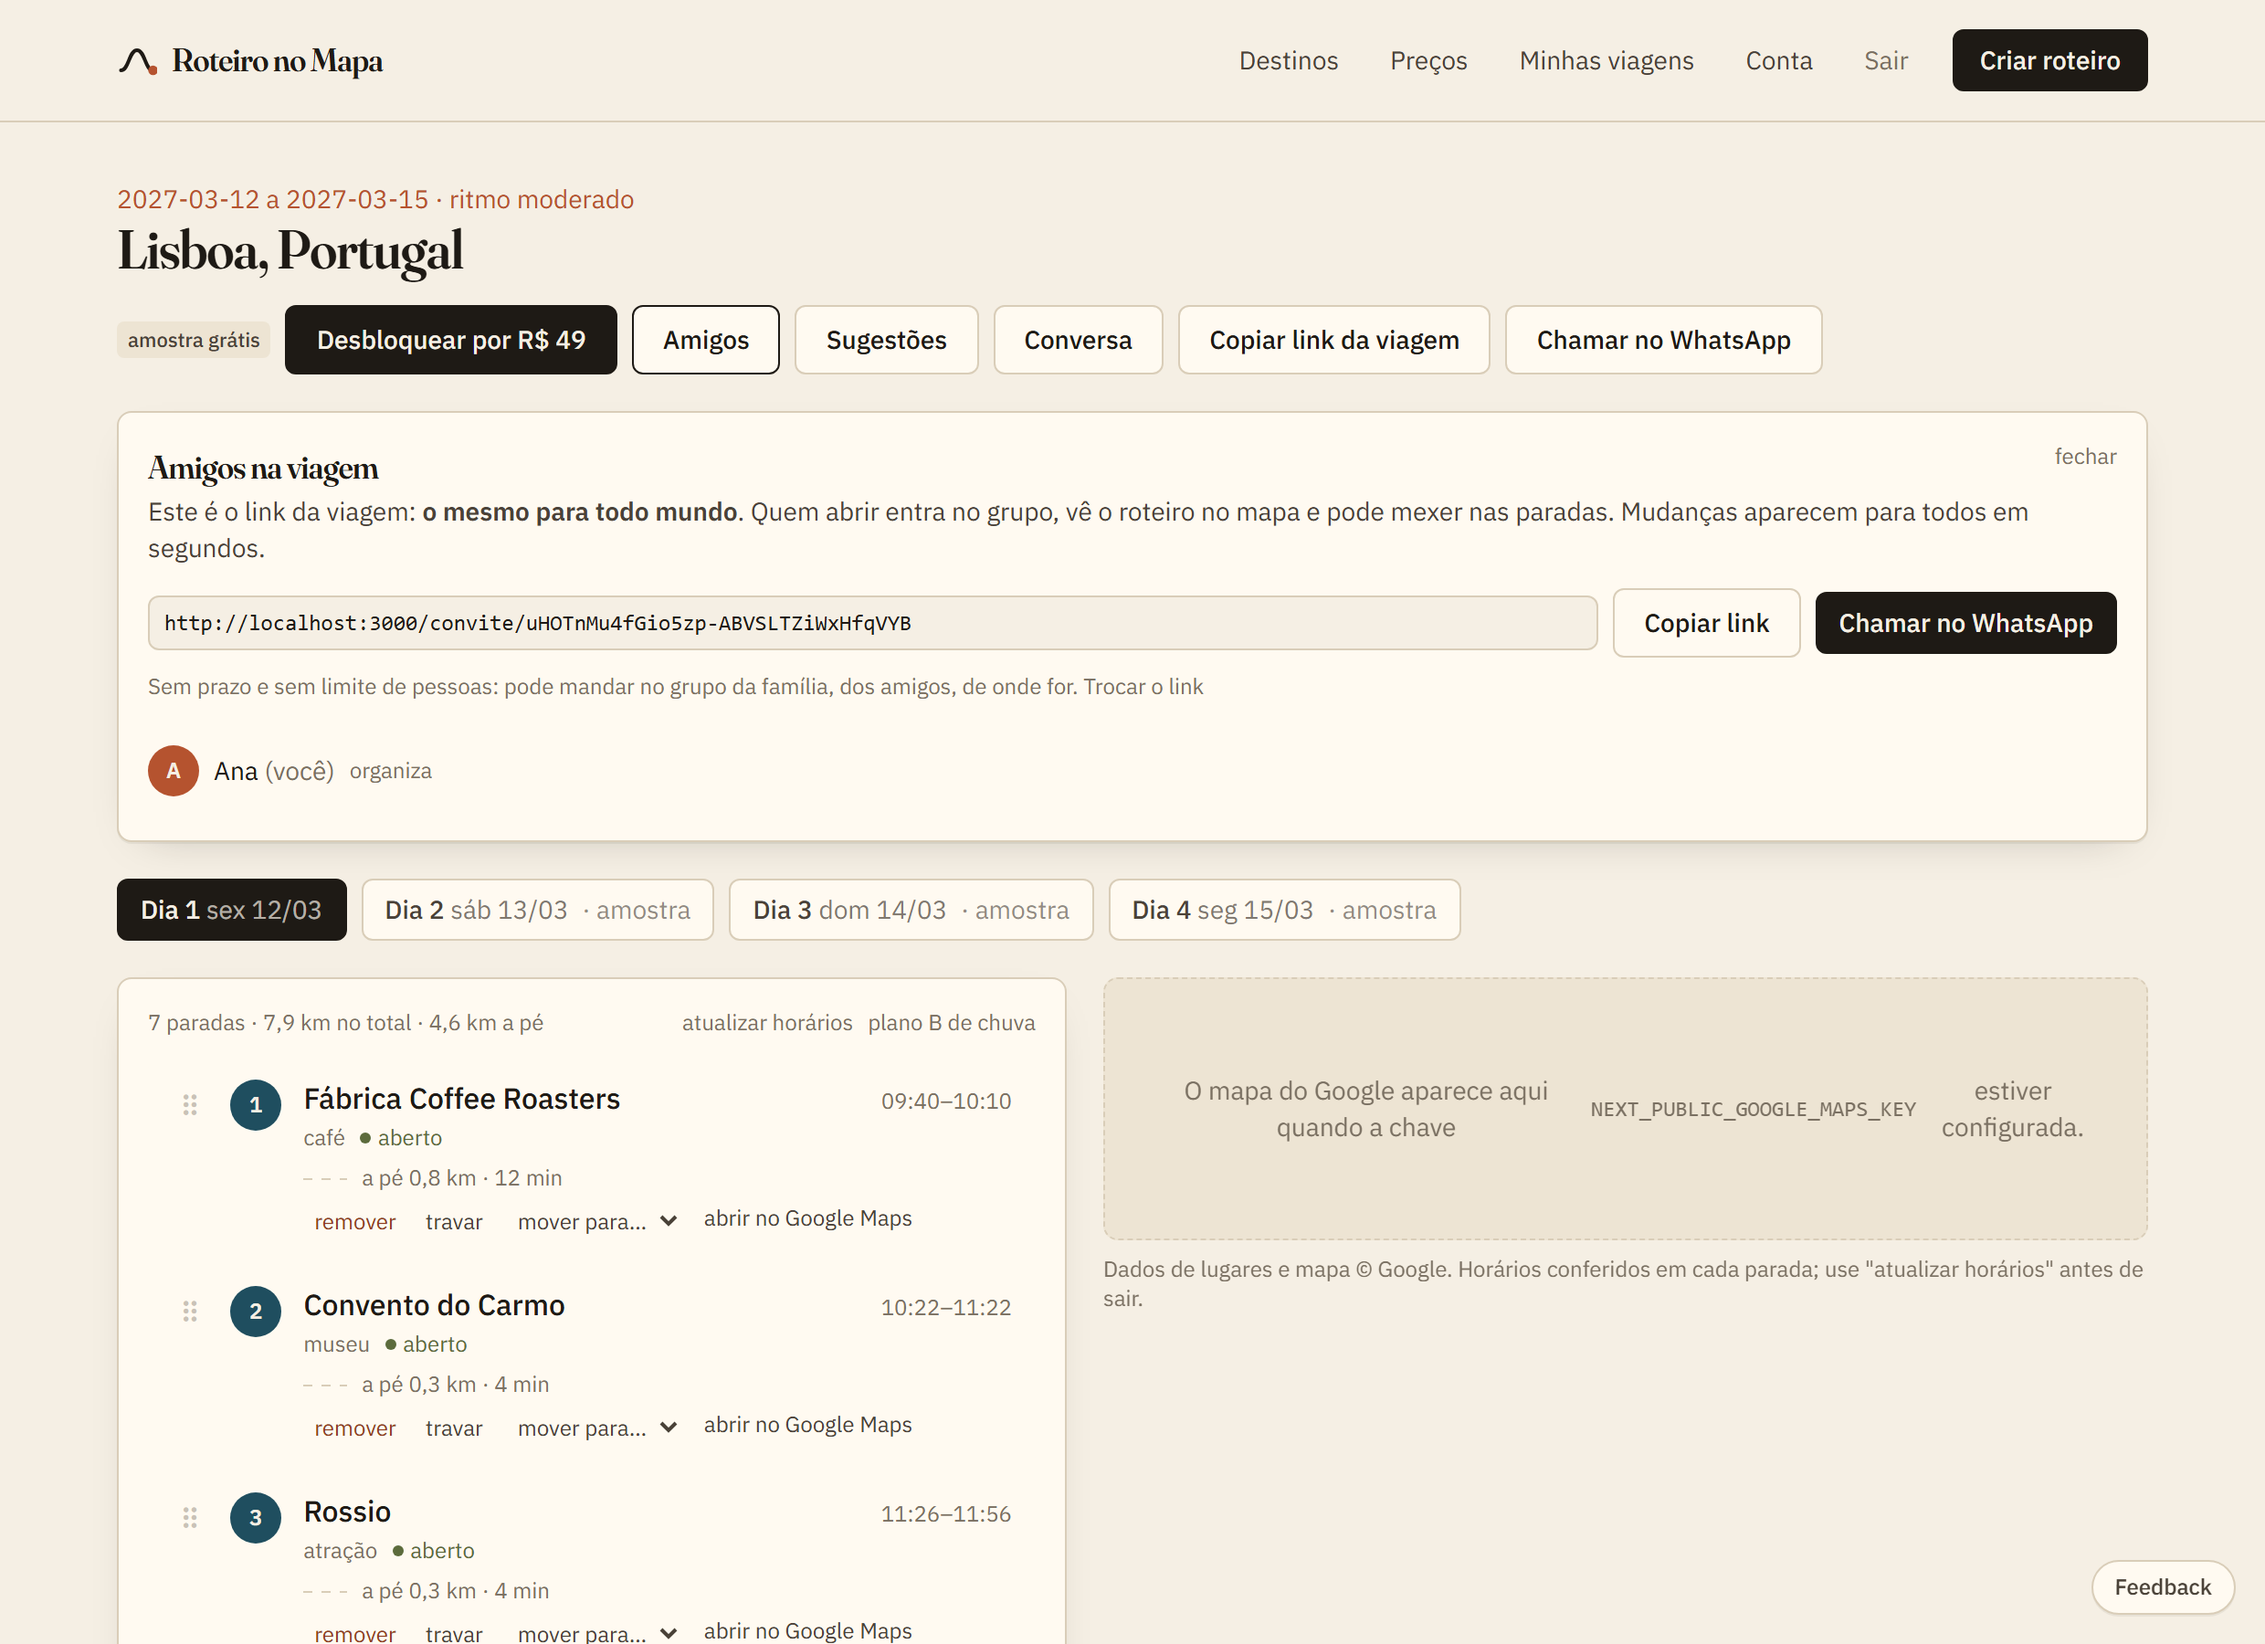
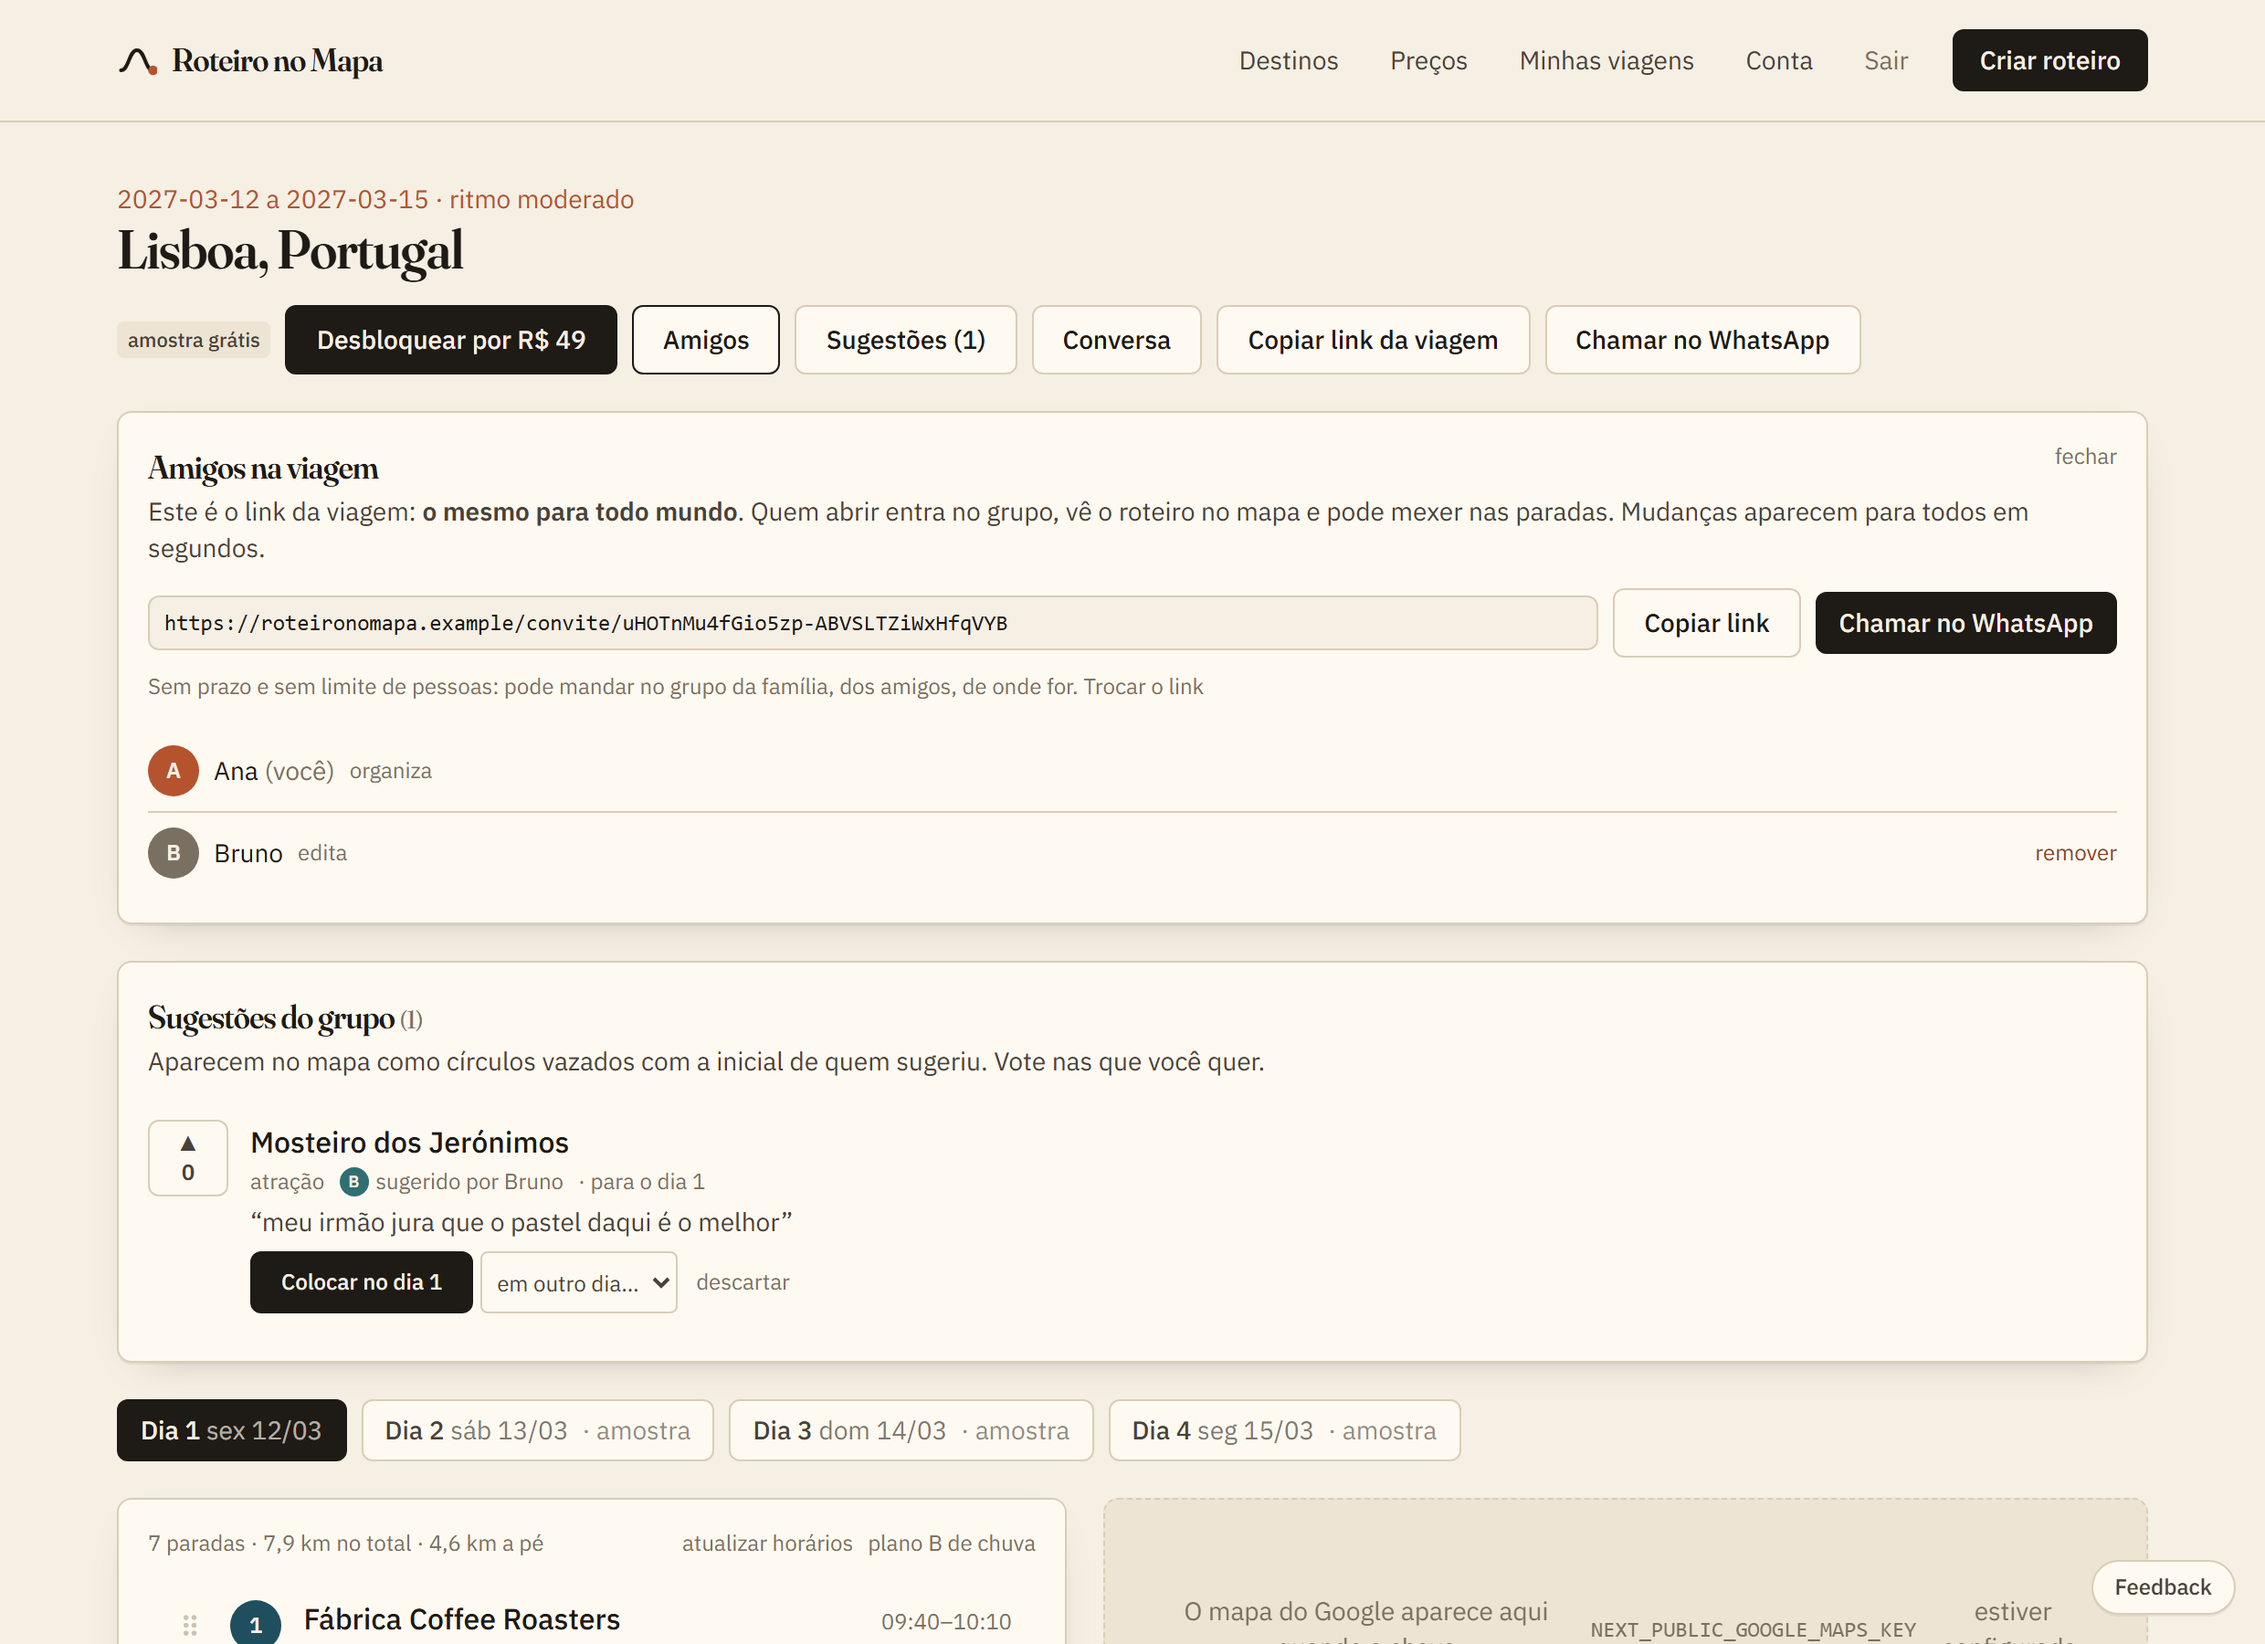
site: a tela do link do grupo não mostra mais localhost
Refeita com NEXT_PUBLIC_APP_URL=https://roteironomapa.example (endereço reservado
para ilustração) e com os dois membros na lista. A legenda do cartão diz que o
endereço é de exemplo. Documentado em site/README.md: a variável precisa entrar no
build, não só no `next start`.

Rodada: E2E 11 nos cinco navegadores; lint e typecheck limpos.

Claude-Session: https://claude.ai/code/session_01PvTgseZtSyakGcFUDZqzWj

diff --git a/index.html b/index.html
@@ -131,7 +131,10 @@
             <button class="quadro largo" type="button">
               <span class="moldura"><img src="img/amigos.png" alt="Painel de amigos com o link" loading="lazy" /></span>
               <h3>Chamar o grupo</h3>
-              <p>Copiar o link ou mandar no WhatsApp. Sem prazo, sem limite de pessoas.</p>
+              <p>
+                Copiar o link ou mandar no WhatsApp. Sem prazo, sem limite de pessoas. O endereço da foto é de
+                exemplo — entra o domínio de verdade quando o app for publicado.
+              </p>
             </button>
             <button class="quadro" type="button">
               <span class="moldura">

diff --git a/README.md b/README.md
@@ -30,4 +30,7 @@ virar um repositório público com Pages por Actions.
 Para ver localmente: `python -m http.server 4173` dentro desta pasta.
 
 As fotos são geradas do app rodando; para refazê-las, suba o app e use o Playwright
-(veja o histórico do repositório).
+(veja o histórico do repositório). A tela do link do grupo é tirada com
+`NEXT_PUBLIC_APP_URL=https://roteironomapa.example` (endereço reservado para
+ilustração) para não aparecer `localhost` na foto — a variável entra no **build**,
+não só no `next start`.
